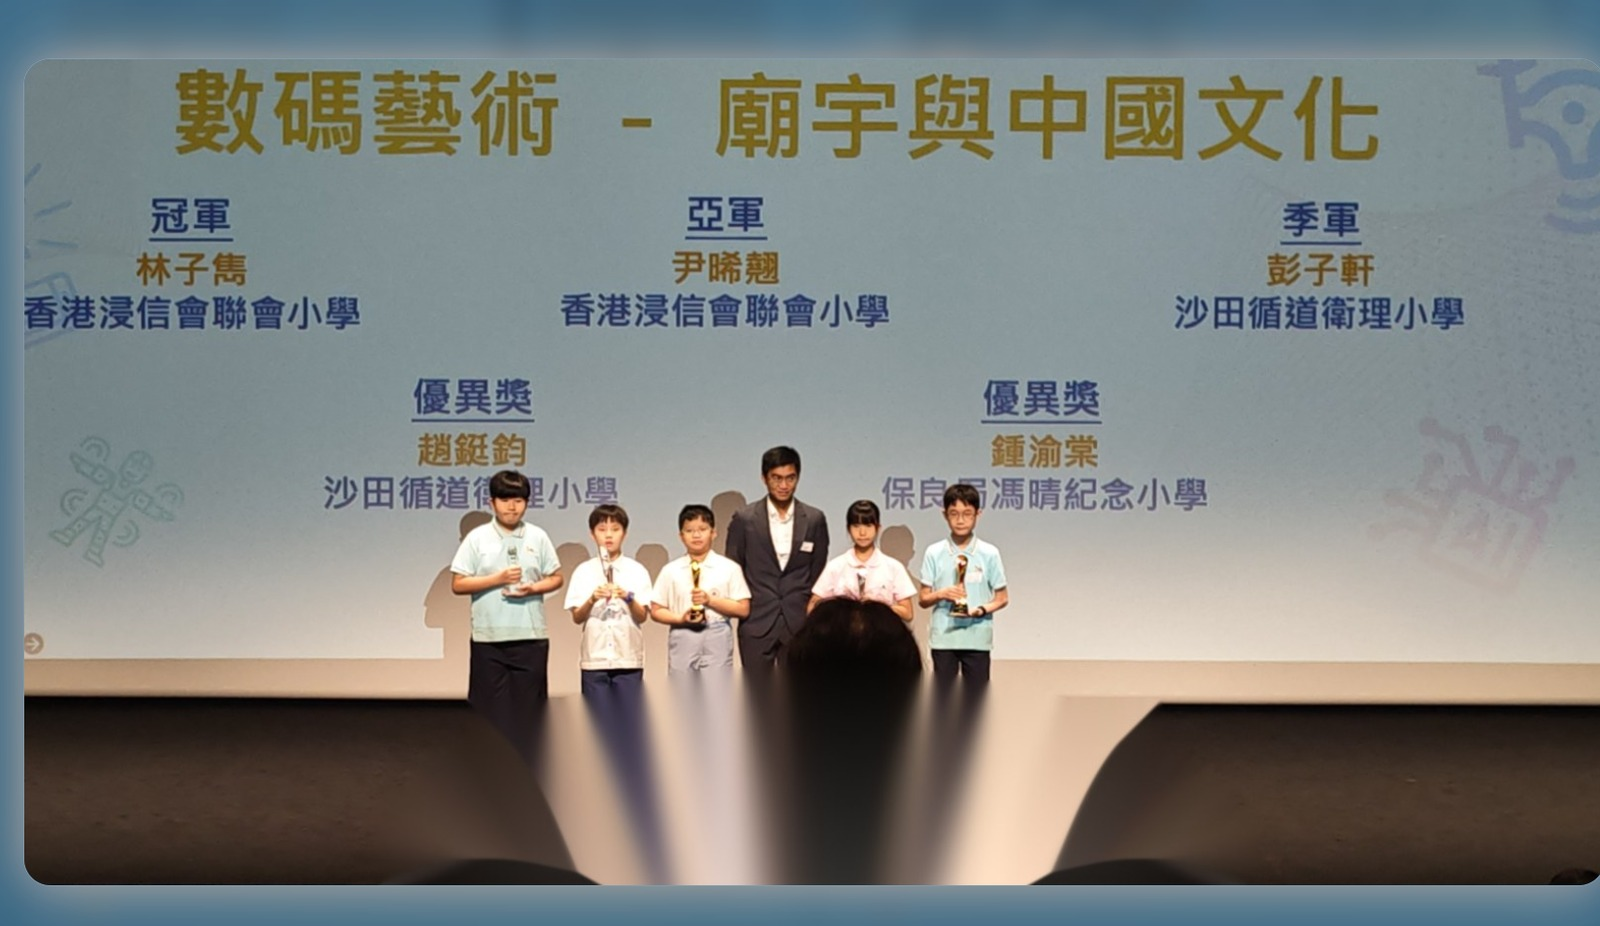
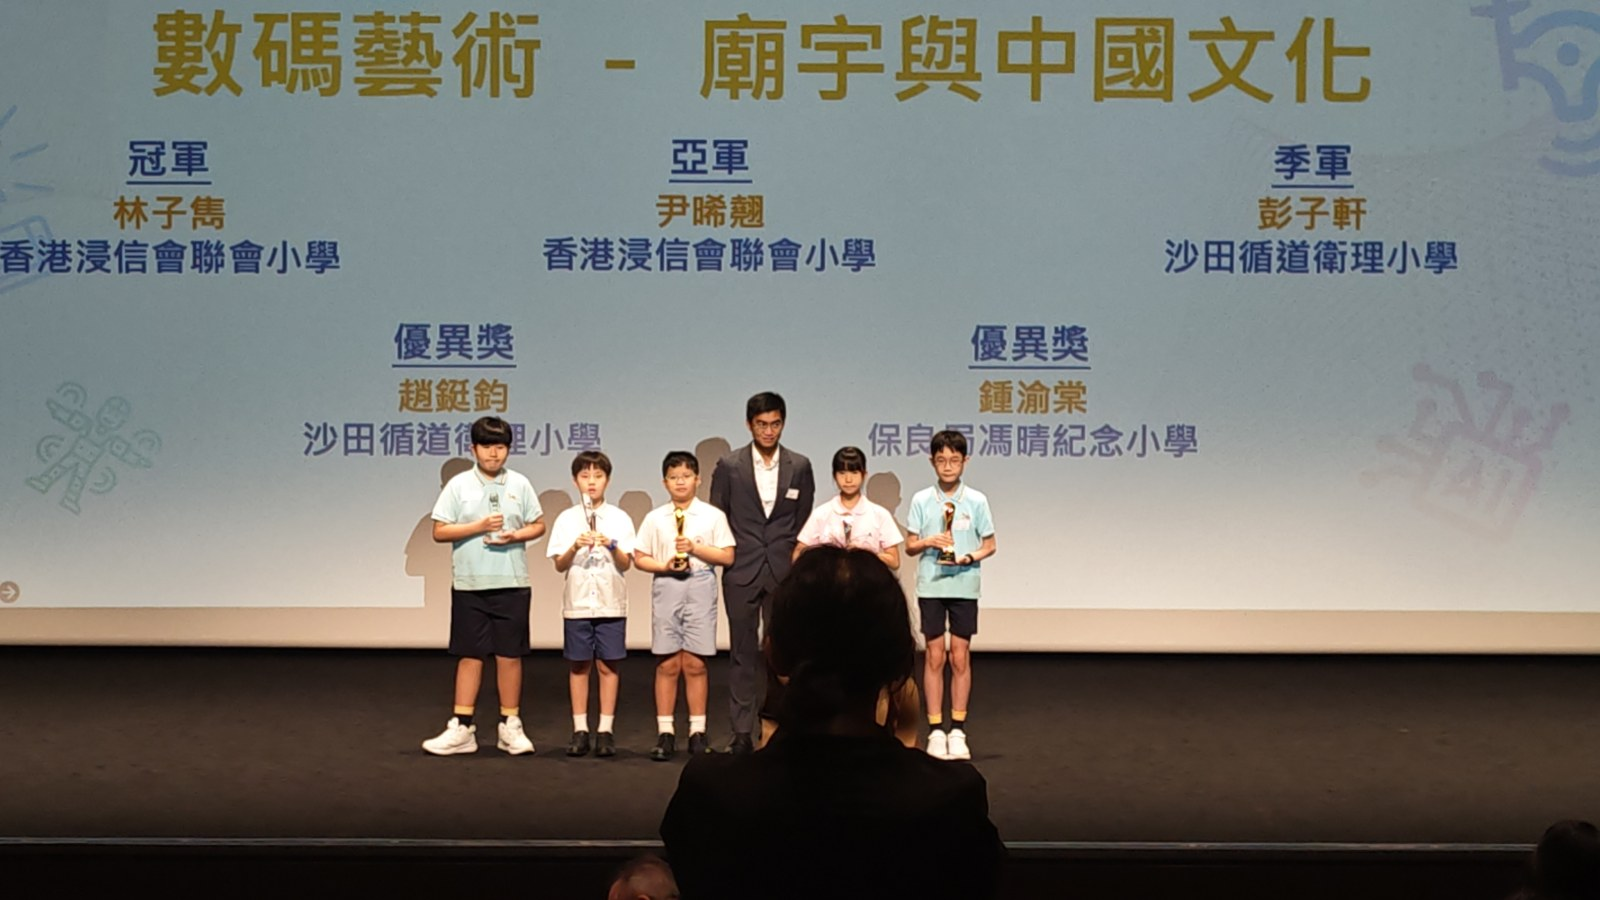
Remove Joyful Moments duplicates; restore Temple merit photographer original

diff --git a/src/data/awards.ts b/src/data/awards.ts
@@ -239,8 +239,6 @@ export const photos = {
     { file: 'ceremony/12-event-backdrop.jpg', en: 'With trophies at the event backdrop', zh: '活動背板前與獎盃' },
     { file: '02-family-trophies-alt.jpg', en: 'Family with trophies', zh: '一家與獎盃合照' },
     { file: '05-oliver-speech-stage.jpg', en: 'Oliver speaking on stage', zh: '渝棠舞台發言' },
-    { file: '06-oliver-speech-close.jpg', en: 'Speech close-up with mic', zh: '發言特寫' },
-    { file: 'ceremony/14-family-trophies-backdrop.jpg', en: 'Family with trophies at the backdrop', zh: '一家於背板前手持獎盃' },
   ],
 } as const
 
